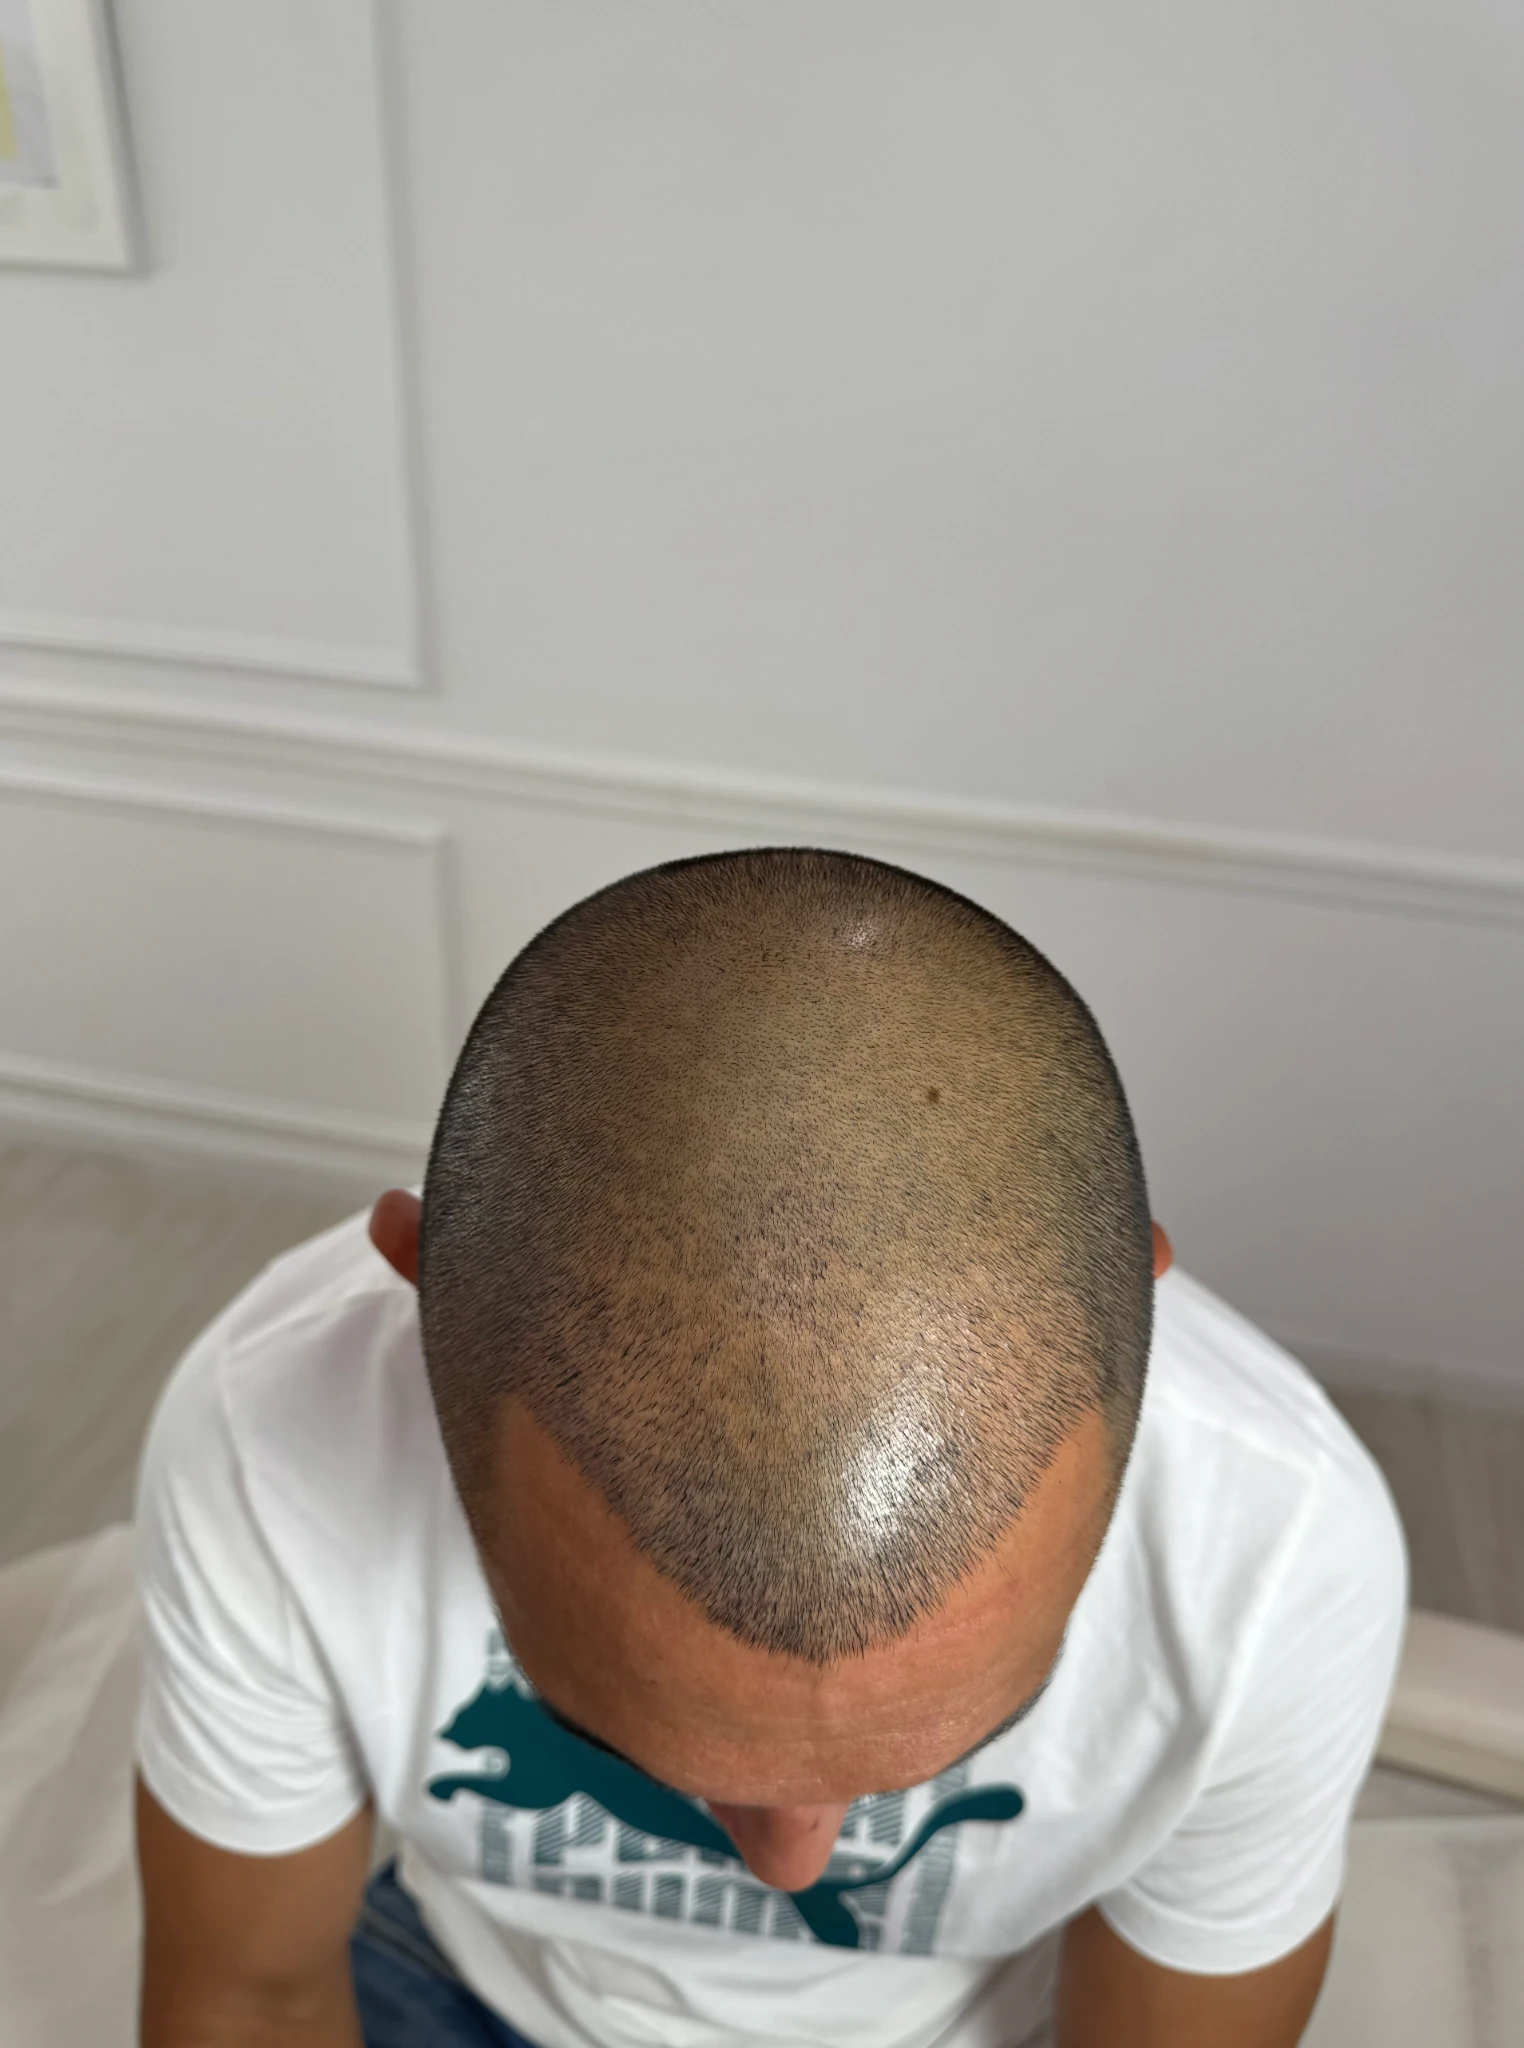
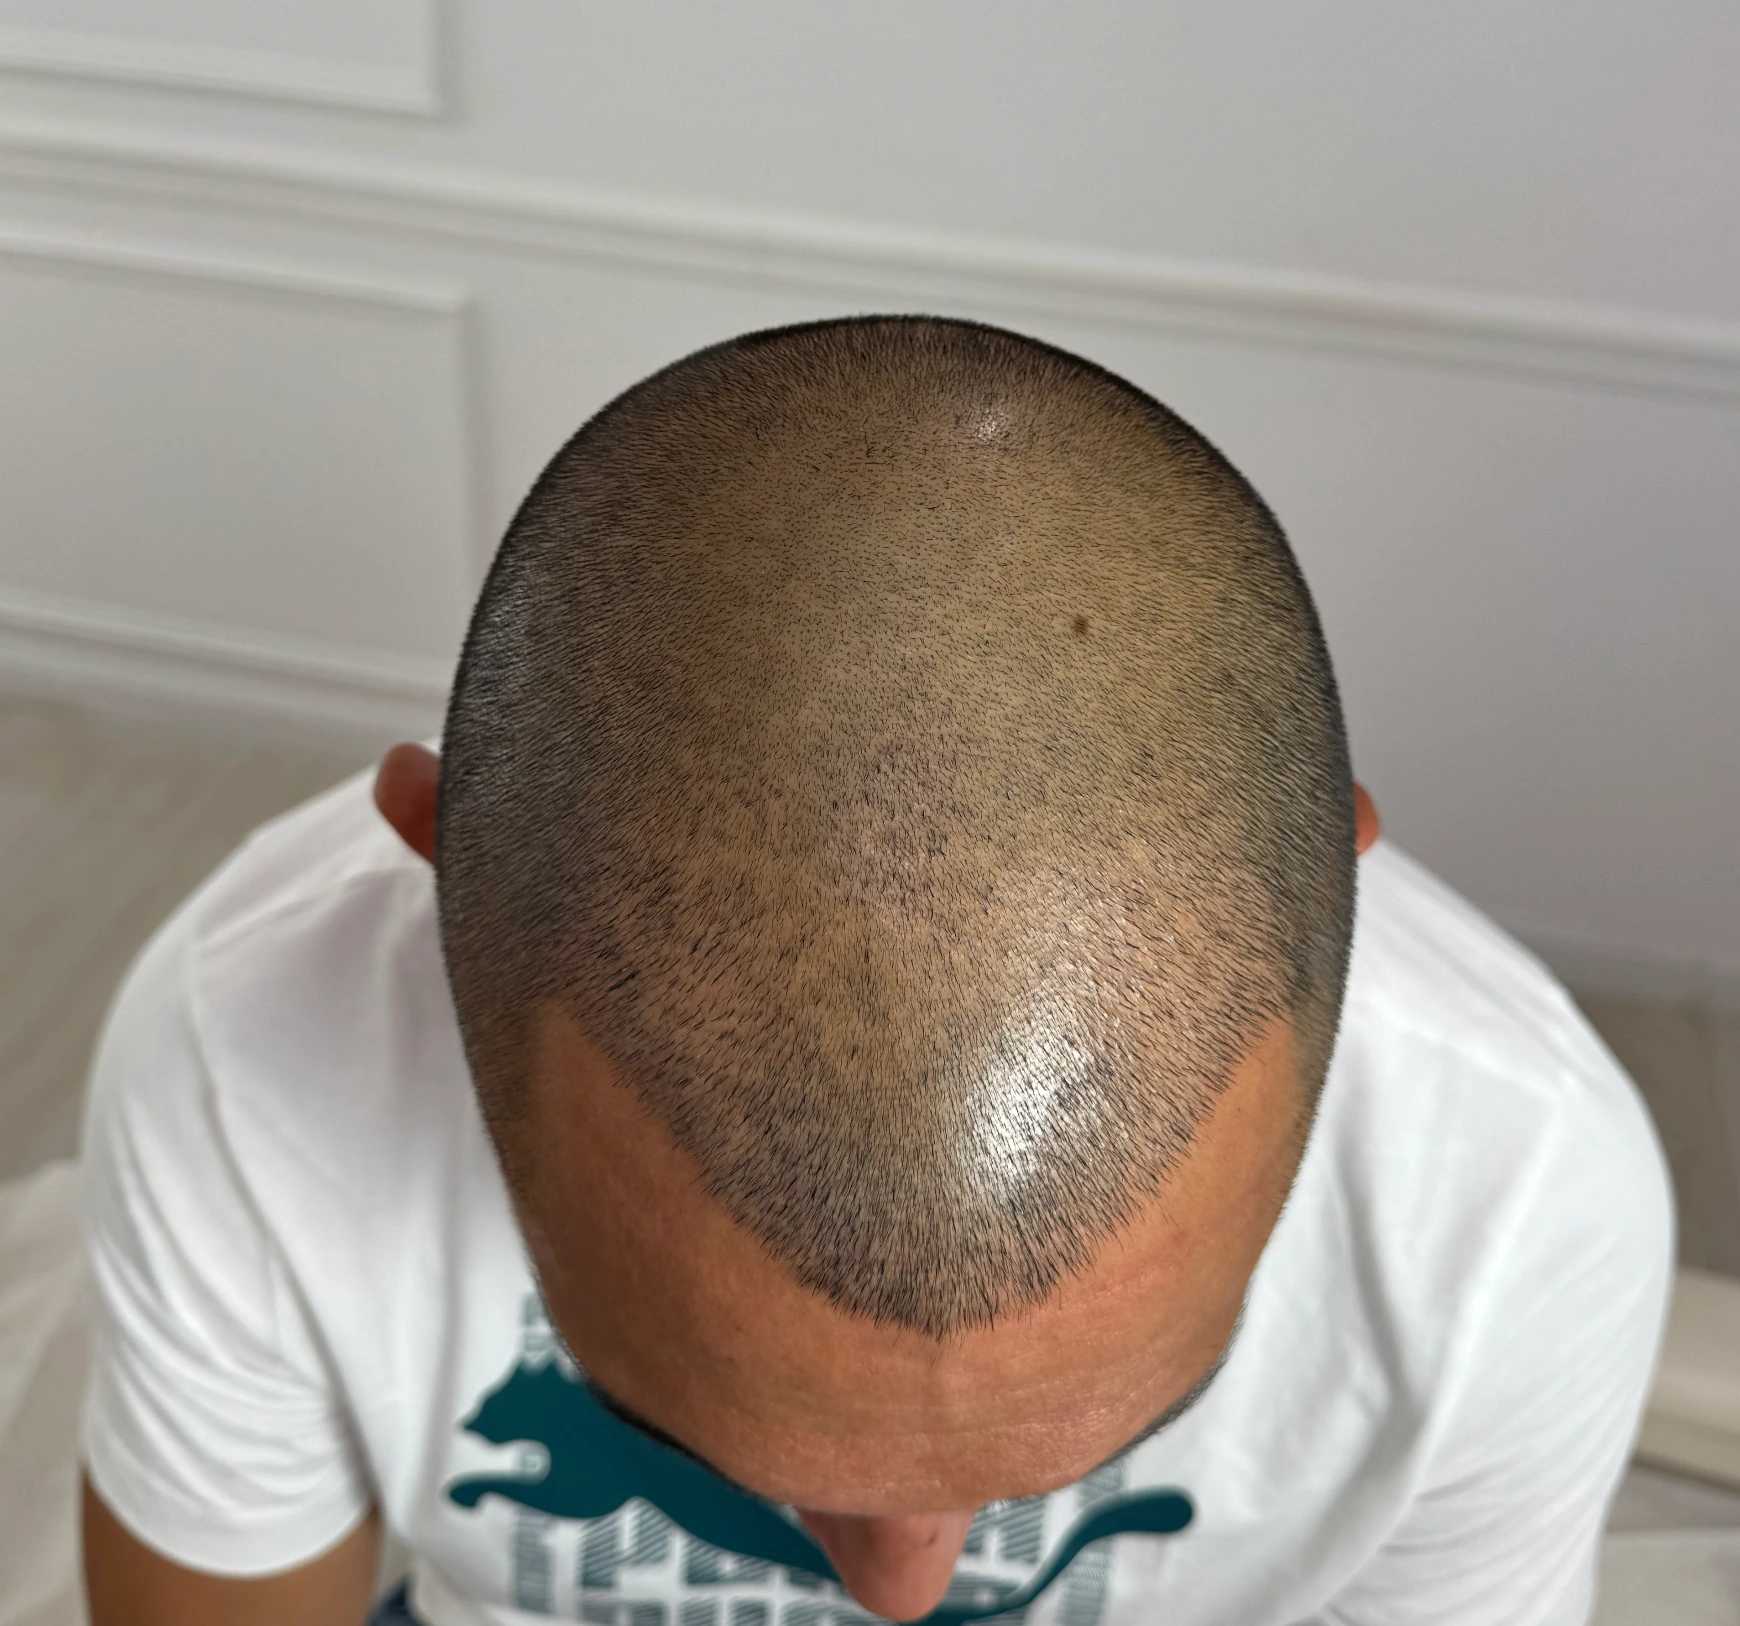
Alinear módulo postinjerto y actualizar imagen V15

diff --git a/assets/css/seo.css b/assets/css/seo.css
@@ -134,3 +134,19 @@
 .compact-solutions .card:has(img.postinjerto-card-image){
   overflow: hidden;
 }
+
+
+/* V15 - tarjeta Después de un injerto alineada con el resto */
+.compact-solutions .card:has(img.postinjerto-card-image){
+  overflow: visible !important;
+}
+
+.compact-solutions .card img.postinjerto-card-image{
+  width: 100% !important;
+  aspect-ratio: 4 / 3 !important;
+  object-fit: cover !important;
+  object-position: center 46% !important;
+  transform: none !important;
+  transform-origin: center !important;
+  display: block !important;
+}
